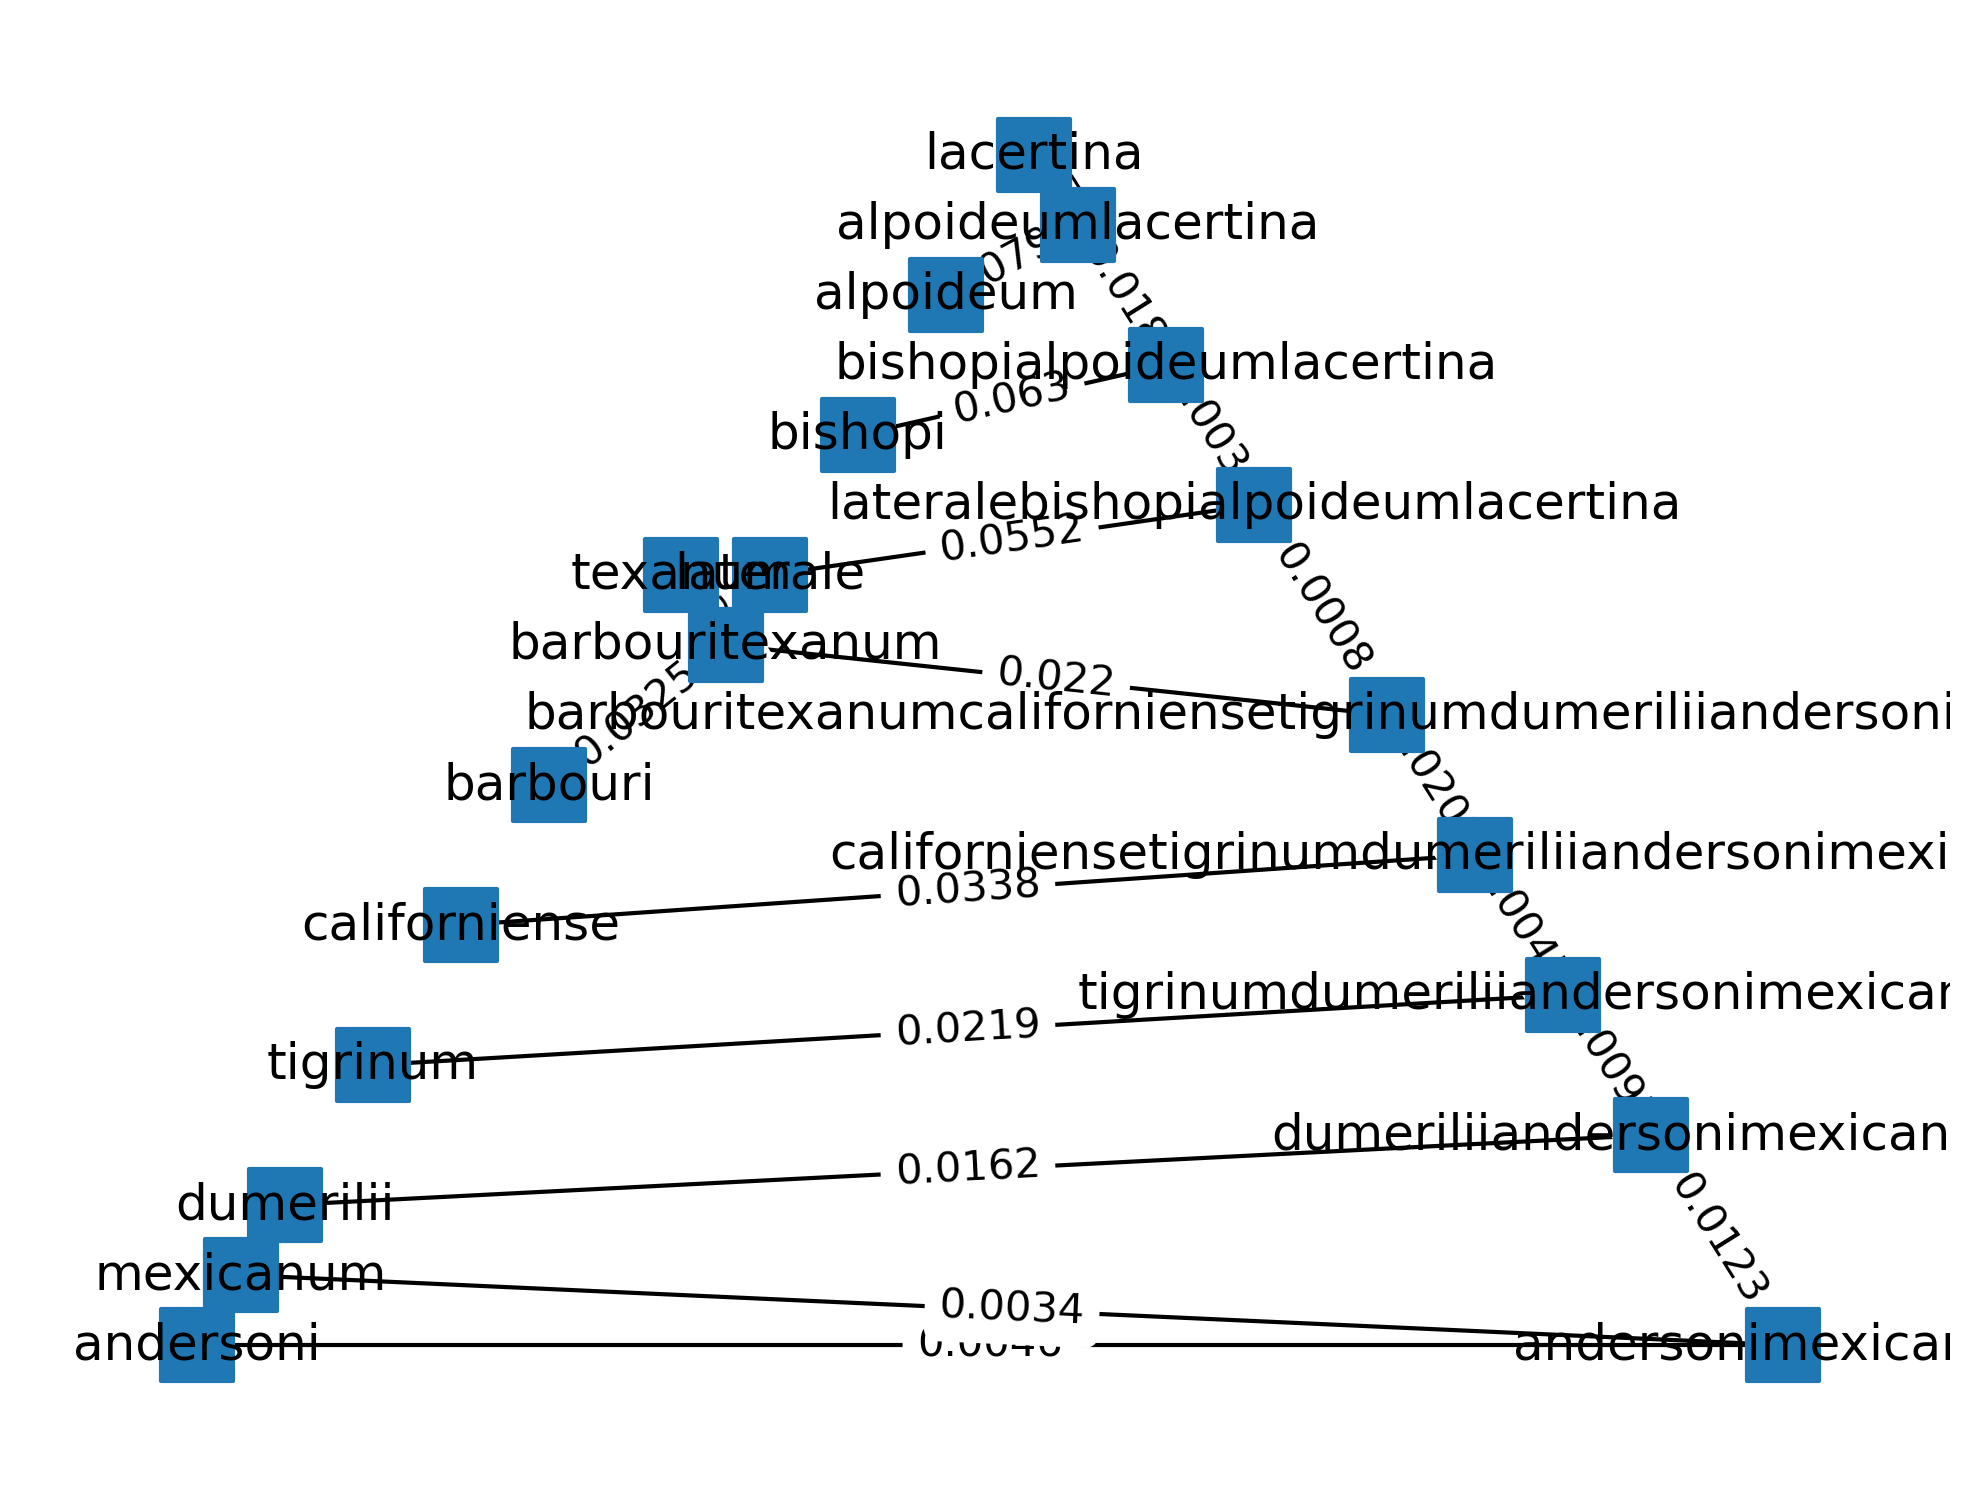
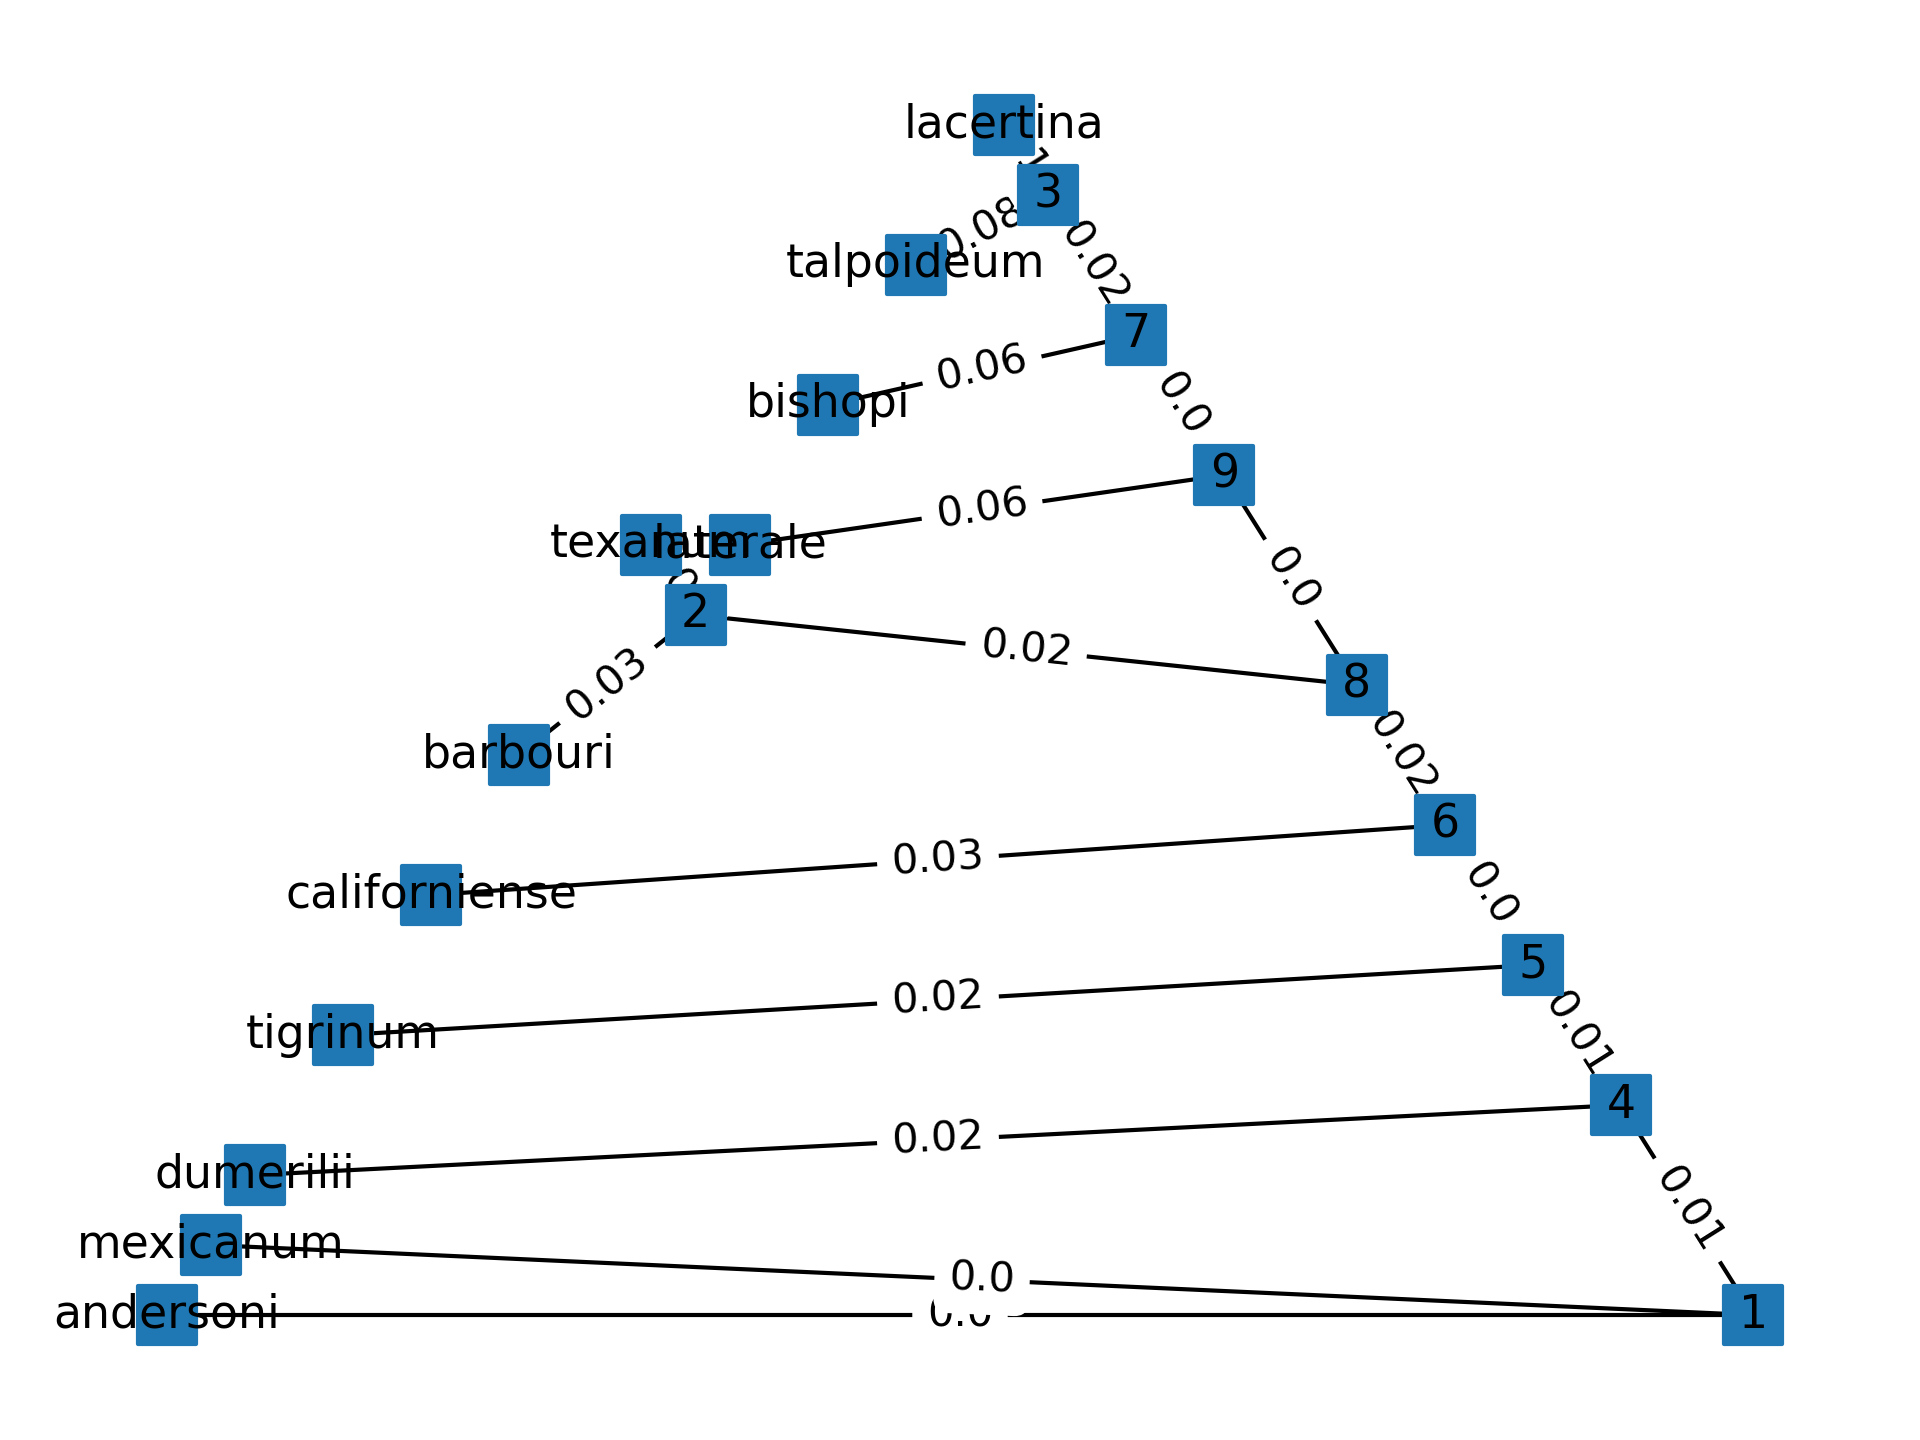
Haciendo las gráficas más legibles

Changed region(s): [[0.0312, 0.0625, 1.0, 0.9375]]

diff --git a/src/graphs/p/nj/tamura.tex b/src/graphs/p/nj/tamura.tex
@@ -13,39 +13,39 @@
         (72.0:2) node (dumerilii){dumerilii}
         (90.0:2) node (laterale){laterale}
         (108.0:2) node (mexicanum){mexicanum}
-        (126.0:2) node (alpoideum){alpoideum}
+        (126.0:2) node (talpoideum){talpoideum}
         (144.0:2) node (texanum){texanum}
         (162.0:2) node (tigrinum){tigrinum}
         (180.0:2) node (lacertina){lacertina}
-        (198.0:2) node (andersonimexicanum){andersonimexicanum}
-        (216.0:2) node (barbouritexanum){barbouritexanum}
-        (234.0:2) node (alpoideumlacertina){alpoideumlacertina}
-        (252.0:2) node (dumeriliiandersonimexicanum){dumeriliiandersonimexicanum}
-        (270.0:2) node (tigrinumdumeriliiandersonimexicanum){tigrinumdumeriliiandersonimexicanum}
-        (288.0:2) node (californiensetigrinumdumeriliiandersonimexicanum){californiensetigrinumdumeriliiandersonimexicanum}
-        (306.0:2) node (bishopialpoideumlacertina){bishopialpoideumlacertina}
-        (324.0:2) node (lateralebishopialpoideumlacertina){lateralebishopialpoideumlacertina}
-        (342.0:2) node (barbouritexanumcaliforniensetigrinumdumeriliiandersonimexicanum){barbouritexanumcaliforniensetigrinumdumeriliiandersonimexicanum};
+        (198.0:2) node (1){1}
+        (216.0:2) node (2){2}
+        (234.0:2) node (3){3}
+        (252.0:2) node (4){4}
+        (270.0:2) node (5){5}
+        (288.0:2) node (6){6}
+        (306.0:2) node (7){7}
+        (324.0:2) node (8){8}
+        (342.0:2) node (9){9};
       \begin{scope}[-]
-        \draw (andersoni) to node[] {0.0042} (andersonimexicanum);
-        \draw (barbouri) to node[] {0.0323} (barbouritexanum);
-        \draw (bishopi) to node[] {0.0578} (bishopialpoideumlacertina);
-        \draw (californiense) to node[] {0.0323} (californiensetigrinumdumeriliiandersonimexicanum);
-        \draw (dumerilii) to node[] {0.0161} (dumeriliiandersonimexicanum);
-        \draw (laterale) to node[] {0.0514} (lateralebishopialpoideumlacertina);
-        \draw (mexicanum) to node[] {0.0028} (andersonimexicanum);
-        \draw (alpoideum) to node[] {0.0648} (alpoideumlacertina);
-        \draw (texanum) to node[] {0.0297} (barbouritexanum);
-        \draw (tigrinum) to node[] {0.0207} (tigrinumdumeriliiandersonimexicanum);
-        \draw (lacertina) to node[] {0.1142} (alpoideumlacertina);
-        \draw (andersonimexicanum) to node[] {0.0119} (dumeriliiandersonimexicanum);
-        \draw (barbouritexanum) to node[] {0.0189} (barbouritexanumcaliforniensetigrinumdumeriliiandersonimexicanum);
-        \draw (alpoideumlacertina) to node[] {0.0127} (bishopialpoideumlacertina);
-        \draw (dumeriliiandersonimexicanum) to node[] {0.0086} (tigrinumdumeriliiandersonimexicanum);
-        \draw (tigrinumdumeriliiandersonimexicanum) to node[] {0.0045} (californiensetigrinumdumeriliiandersonimexicanum);
-        \draw (californiensetigrinumdumeriliiandersonimexicanum) to node[] {0.0179} (barbouritexanumcaliforniensetigrinumdumeriliiandersonimexicanum);
-        \draw (bishopialpoideumlacertina) to node[] {0.0029} (lateralebishopialpoideumlacertina);
-        \draw (lateralebishopialpoideumlacertina) to node[] {0.0018} (barbouritexanumcaliforniensetigrinumdumeriliiandersonimexicanum);
+        \draw (andersoni) to node[] {0.0} (1);
+        \draw (barbouri) to node[] {0.03} (2);
+        \draw (bishopi) to node[] {0.06} (7);
+        \draw (californiense) to node[] {0.03} (6);
+        \draw (dumerilii) to node[] {0.02} (4);
+        \draw (laterale) to node[] {0.05} (8);
+        \draw (mexicanum) to node[] {0.0} (1);
+        \draw (talpoideum) to node[] {0.06} (3);
+        \draw (texanum) to node[] {0.03} (2);
+        \draw (tigrinum) to node[] {0.02} (5);
+        \draw (lacertina) to node[] {0.11} (3);
+        \draw (1) to node[] {0.01} (4);
+        \draw (2) to node[] {0.02} (9);
+        \draw (3) to node[] {0.01} (7);
+        \draw (4) to node[] {0.01} (5);
+        \draw (5) to node[] {0.0} (6);
+        \draw (6) to node[] {0.02} (9);
+        \draw (7) to node[] {0.0} (8);
+        \draw (8) to node[] {0.0} (9);
       \end{scope}
     \end{tikzpicture}
   \caption{{nombre}}

diff --git a/src/graphs/p/nj/mk.tex b/src/graphs/p/nj/mk.tex
@@ -13,39 +13,39 @@
         (72.0:2) node (dumerilii){dumerilii}
         (90.0:2) node (laterale){laterale}
         (108.0:2) node (mexicanum){mexicanum}
-        (126.0:2) node (alpoideum){alpoideum}
+        (126.0:2) node (talpoideum){talpoideum}
         (144.0:2) node (texanum){texanum}
         (162.0:2) node (tigrinum){tigrinum}
         (180.0:2) node (lacertina){lacertina}
-        (198.0:2) node (andersonimexicanum){andersonimexicanum}
-        (216.0:2) node (barbouritexanum){barbouritexanum}
-        (234.0:2) node (alpoideumlacertina){alpoideumlacertina}
-        (252.0:2) node (dumeriliiandersonimexicanum){dumeriliiandersonimexicanum}
-        (270.0:2) node (tigrinumdumeriliiandersonimexicanum){tigrinumdumeriliiandersonimexicanum}
-        (288.0:2) node (californiensetigrinumdumeriliiandersonimexicanum){californiensetigrinumdumeriliiandersonimexicanum}
-        (306.0:2) node (bishopialpoideumlacertina){bishopialpoideumlacertina}
-        (324.0:2) node (lateralebishopialpoideumlacertina){lateralebishopialpoideumlacertina}
-        (342.0:2) node (barbouritexanumcaliforniensetigrinumdumeriliiandersonimexicanum){barbouritexanumcaliforniensetigrinumdumeriliiandersonimexicanum};
+        (198.0:2) node (1){1}
+        (216.0:2) node (2){2}
+        (234.0:2) node (3){3}
+        (252.0:2) node (4){4}
+        (270.0:2) node (5){5}
+        (288.0:2) node (6){6}
+        (306.0:2) node (7){7}
+        (324.0:2) node (8){8}
+        (342.0:2) node (9){9};
       \begin{scope}[-]
-        \draw (andersoni) to node[] {0.0041} (andersonimexicanum);
-        \draw (barbouri) to node[] {0.0319} (barbouritexanum);
-        \draw (bishopi) to node[] {0.0574} (bishopialpoideumlacertina);
-        \draw (californiense) to node[] {0.0322} (californiensetigrinumdumeriliiandersonimexicanum);
-        \draw (dumerilii) to node[] {0.0162} (dumeriliiandersonimexicanum);
-        \draw (laterale) to node[] {0.051} (lateralebishopialpoideumlacertina);
-        \draw (mexicanum) to node[] {0.0029} (andersonimexicanum);
-        \draw (alpoideum) to node[] {0.0645} (alpoideumlacertina);
-        \draw (texanum) to node[] {0.0291} (barbouritexanum);
-        \draw (tigrinum) to node[] {0.0207} (tigrinumdumeriliiandersonimexicanum);
-        \draw (lacertina) to node[] {0.1135} (alpoideumlacertina);
-        \draw (andersonimexicanum) to node[] {0.0118} (dumeriliiandersonimexicanum);
-        \draw (barbouritexanum) to node[] {0.0194} (barbouritexanumcaliforniensetigrinumdumeriliiandersonimexicanum);
-        \draw (alpoideumlacertina) to node[] {0.0126} (bishopialpoideumlacertina);
-        \draw (dumeriliiandersonimexicanum) to node[] {0.0085} (tigrinumdumeriliiandersonimexicanum);
-        \draw (tigrinumdumeriliiandersonimexicanum) to node[] {0.0045} (californiensetigrinumdumeriliiandersonimexicanum);
-        \draw (californiensetigrinumdumeriliiandersonimexicanum) to node[] {0.0177} (barbouritexanumcaliforniensetigrinumdumeriliiandersonimexicanum);
-        \draw (bishopialpoideumlacertina) to node[] {0.0028} (lateralebishopialpoideumlacertina);
-        \draw (lateralebishopialpoideumlacertina) to node[] {0.0017} (barbouritexanumcaliforniensetigrinumdumeriliiandersonimexicanum);
+        \draw (andersoni) to node[] {0.0} (1);
+        \draw (barbouri) to node[] {0.03} (2);
+        \draw (bishopi) to node[] {0.06} (7);
+        \draw (californiense) to node[] {0.03} (6);
+        \draw (dumerilii) to node[] {0.02} (4);
+        \draw (laterale) to node[] {0.05} (8);
+        \draw (mexicanum) to node[] {0.0} (1);
+        \draw (talpoideum) to node[] {0.06} (3);
+        \draw (texanum) to node[] {0.03} (2);
+        \draw (tigrinum) to node[] {0.02} (5);
+        \draw (lacertina) to node[] {0.11} (3);
+        \draw (1) to node[] {0.01} (4);
+        \draw (2) to node[] {0.02} (9);
+        \draw (3) to node[] {0.01} (7);
+        \draw (4) to node[] {0.01} (5);
+        \draw (5) to node[] {0.0} (6);
+        \draw (6) to node[] {0.02} (9);
+        \draw (7) to node[] {0.0} (8);
+        \draw (8) to node[] {0.0} (9);
       \end{scope}
     \end{tikzpicture}
   \caption{{nombre}}

diff --git a/src/graphs/p/nj/jk.tex b/src/graphs/p/nj/jk.tex
@@ -13,39 +13,39 @@
         (72.0:2) node (dumerilii){dumerilii}
         (90.0:2) node (laterale){laterale}
         (108.0:2) node (mexicanum){mexicanum}
-        (126.0:2) node (alpoideum){alpoideum}
+        (126.0:2) node (talpoideum){talpoideum}
         (144.0:2) node (texanum){texanum}
         (162.0:2) node (tigrinum){tigrinum}
         (180.0:2) node (lacertina){lacertina}
-        (198.0:2) node (alpoideumlacertina){alpoideumlacertina}
-        (216.0:2) node (barbouritexanum){barbouritexanum}
-        (234.0:2) node (andersonimexicanum){andersonimexicanum}
-        (252.0:2) node (dumeriliiandersonimexicanum){dumeriliiandersonimexicanum}
-        (270.0:2) node (tigrinumdumeriliiandersonimexicanum){tigrinumdumeriliiandersonimexicanum}
-        (288.0:2) node (californiensetigrinumdumeriliiandersonimexicanum){californiensetigrinumdumeriliiandersonimexicanum}
-        (306.0:2) node (bishopialpoideumlacertina){bishopialpoideumlacertina}
-        (324.0:2) node (lateralebishopialpoideumlacertina){lateralebishopialpoideumlacertina}
-        (342.0:2) node (barbouritexanumcaliforniensetigrinumdumeriliiandersonimexicanum){barbouritexanumcaliforniensetigrinumdumeriliiandersonimexicanum};
+        (198.0:2) node (1){1}
+        (216.0:2) node (2){2}
+        (234.0:2) node (3){3}
+        (252.0:2) node (4){4}
+        (270.0:2) node (5){5}
+        (288.0:2) node (6){6}
+        (306.0:2) node (7){7}
+        (324.0:2) node (8){8}
+        (342.0:2) node (9){9};
       \begin{scope}[-]
-        \draw (andersoni) to node[] {0.0045} (andersonimexicanum);
-        \draw (barbouri) to node[] {0.0338} (barbouritexanum);
-        \draw (bishopi) to node[] {0.0693} (bishopialpoideumlacertina);
-        \draw (californiense) to node[] {0.0357} (californiensetigrinumdumeriliiandersonimexicanum);
-        \draw (dumerilii) to node[] {0.0168} (dumeriliiandersonimexicanum);
-        \draw (laterale) to node[] {0.0595} (lateralebishopialpoideumlacertina);
-        \draw (mexicanum) to node[] {0.0035} (andersonimexicanum);
-        \draw (alpoideum) to node[] {0.0899} (alpoideumlacertina);
-        \draw (texanum) to node[] {0.0312} (barbouritexanum);
-        \draw (tigrinum) to node[] {0.022} (tigrinumdumeriliiandersonimexicanum);
-        \draw (lacertina) to node[] {0.2241} (alpoideumlacertina);
-        \draw (alpoideumlacertina) to node[] {0.0217} (bishopialpoideumlacertina);
-        \draw (barbouritexanum) to node[] {0.0251} (barbouritexanumcaliforniensetigrinumdumeriliiandersonimexicanum);
-        \draw (andersonimexicanum) to node[] {0.0127} (dumeriliiandersonimexicanum);
-        \draw (dumeriliiandersonimexicanum) to node[] {0.0095} (tigrinumdumeriliiandersonimexicanum);
-        \draw (tigrinumdumeriliiandersonimexicanum) to node[] {0.0046} (californiensetigrinumdumeriliiandersonimexicanum);
-        \draw (californiensetigrinumdumeriliiandersonimexicanum) to node[] {0.0236} (barbouritexanumcaliforniensetigrinumdumeriliiandersonimexicanum);
-        \draw (bishopialpoideumlacertina) to node[] {0.004} (lateralebishopialpoideumlacertina);
-        \draw (lateralebishopialpoideumlacertina) to node[] {0.0009} (barbouritexanumcaliforniensetigrinumdumeriliiandersonimexicanum);
+        \draw (andersoni) to node[] {0.0} (3);
+        \draw (barbouri) to node[] {0.03} (2);
+        \draw (bishopi) to node[] {0.07} (7);
+        \draw (californiense) to node[] {0.04} (6);
+        \draw (dumerilii) to node[] {0.02} (4);
+        \draw (laterale) to node[] {0.06} (8);
+        \draw (mexicanum) to node[] {0.0} (3);
+        \draw (talpoideum) to node[] {0.09} (1);
+        \draw (texanum) to node[] {0.03} (2);
+        \draw (tigrinum) to node[] {0.02} (5);
+        \draw (lacertina) to node[] {0.22} (1);
+        \draw (1) to node[] {0.02} (7);
+        \draw (2) to node[] {0.03} (9);
+        \draw (3) to node[] {0.01} (4);
+        \draw (4) to node[] {0.01} (5);
+        \draw (5) to node[] {0.0} (6);
+        \draw (6) to node[] {0.02} (9);
+        \draw (7) to node[] {0.0} (8);
+        \draw (8) to node[] {0.0} (9);
       \end{scope}
     \end{tikzpicture}
   \caption{{nombre}}

diff --git a/src/graphs/p/nj/naive.tex b/src/graphs/p/nj/naive.tex
@@ -13,39 +13,39 @@
         (72.0:2) node (dumerilii){dumerilii}
         (90.0:2) node (laterale){laterale}
         (108.0:2) node (mexicanum){mexicanum}
-        (126.0:2) node (alpoideum){alpoideum}
+        (126.0:2) node (talpoideum){talpoideum}
         (144.0:2) node (texanum){texanum}
         (162.0:2) node (tigrinum){tigrinum}
         (180.0:2) node (lacertina){lacertina}
-        (198.0:2) node (andersonimexicanum){andersonimexicanum}
-        (216.0:2) node (barbouritexanum){barbouritexanum}
-        (234.0:2) node (alpoideumlacertina){alpoideumlacertina}
-        (252.0:2) node (dumeriliiandersonimexicanum){dumeriliiandersonimexicanum}
-        (270.0:2) node (tigrinumdumeriliiandersonimexicanum){tigrinumdumeriliiandersonimexicanum}
-        (288.0:2) node (californiensetigrinumdumeriliiandersonimexicanum){californiensetigrinumdumeriliiandersonimexicanum}
-        (306.0:2) node (bishopialpoideumlacertina){bishopialpoideumlacertina}
-        (324.0:2) node (barbouritexanumcaliforniensetigrinumdumeriliiandersonimexicanum){barbouritexanumcaliforniensetigrinumdumeriliiandersonimexicanum}
-        (342.0:2) node (lateralebishopialpoideumlacertina){lateralebishopialpoideumlacertina};
+        (198.0:2) node (1){1}
+        (216.0:2) node (2){2}
+        (234.0:2) node (3){3}
+        (252.0:2) node (4){4}
+        (270.0:2) node (5){5}
+        (288.0:2) node (6){6}
+        (306.0:2) node (7){7}
+        (324.0:2) node (8){8}
+        (342.0:2) node (9){9};
       \begin{scope}[-]
-        \draw (andersoni) to node[] {0.0046} (andersonimexicanum);
-        \draw (barbouri) to node[] {0.0325} (barbouritexanum);
-        \draw (bishopi) to node[] {0.063} (bishopialpoideumlacertina);
-        \draw (californiense) to node[] {0.0338} (californiensetigrinumdumeriliiandersonimexicanum);
-        \draw (dumerilii) to node[] {0.0162} (dumeriliiandersonimexicanum);
-        \draw (laterale) to node[] {0.0552} (lateralebishopialpoideumlacertina);
-        \draw (mexicanum) to node[] {0.0034} (andersonimexicanum);
-        \draw (alpoideum) to node[] {0.0793} (alpoideumlacertina);
-        \draw (texanum) to node[] {0.0305} (barbouritexanum);
-        \draw (tigrinum) to node[] {0.0219} (tigrinumdumeriliiandersonimexicanum);
-        \draw (lacertina) to node[] {0.1768} (alpoideumlacertina);
-        \draw (andersonimexicanum) to node[] {0.0123} (dumeriliiandersonimexicanum);
-        \draw (barbouritexanum) to node[] {0.022} (barbouritexanumcaliforniensetigrinumdumeriliiandersonimexicanum);
-        \draw (alpoideumlacertina) to node[] {0.018} (bishopialpoideumlacertina);
-        \draw (dumeriliiandersonimexicanum) to node[] {0.0091} (tigrinumdumeriliiandersonimexicanum);
-        \draw (tigrinumdumeriliiandersonimexicanum) to node[] {0.0045} (californiensetigrinumdumeriliiandersonimexicanum);
-        \draw (californiensetigrinumdumeriliiandersonimexicanum) to node[] {0.0208} (barbouritexanumcaliforniensetigrinumdumeriliiandersonimexicanum);
-        \draw (bishopialpoideumlacertina) to node[] {0.0038} (lateralebishopialpoideumlacertina);
-        \draw (barbouritexanumcaliforniensetigrinumdumeriliiandersonimexicanum) to node[] {0.0008} (lateralebishopialpoideumlacertina);
+        \draw (andersoni) to node[] {0.0} (1);
+        \draw (barbouri) to node[] {0.03} (2);
+        \draw (bishopi) to node[] {0.06} (7);
+        \draw (californiense) to node[] {0.03} (6);
+        \draw (dumerilii) to node[] {0.02} (4);
+        \draw (laterale) to node[] {0.06} (9);
+        \draw (mexicanum) to node[] {0.0} (1);
+        \draw (talpoideum) to node[] {0.08} (3);
+        \draw (texanum) to node[] {0.03} (2);
+        \draw (tigrinum) to node[] {0.02} (5);
+        \draw (lacertina) to node[] {0.18} (3);
+        \draw (1) to node[] {0.01} (4);
+        \draw (2) to node[] {0.02} (8);
+        \draw (3) to node[] {0.02} (7);
+        \draw (4) to node[] {0.01} (5);
+        \draw (5) to node[] {0.0} (6);
+        \draw (6) to node[] {0.02} (8);
+        \draw (7) to node[] {0.0} (9);
+        \draw (8) to node[] {0.0} (9);
       \end{scope}
     \end{tikzpicture}
   \caption{{nombre}}
